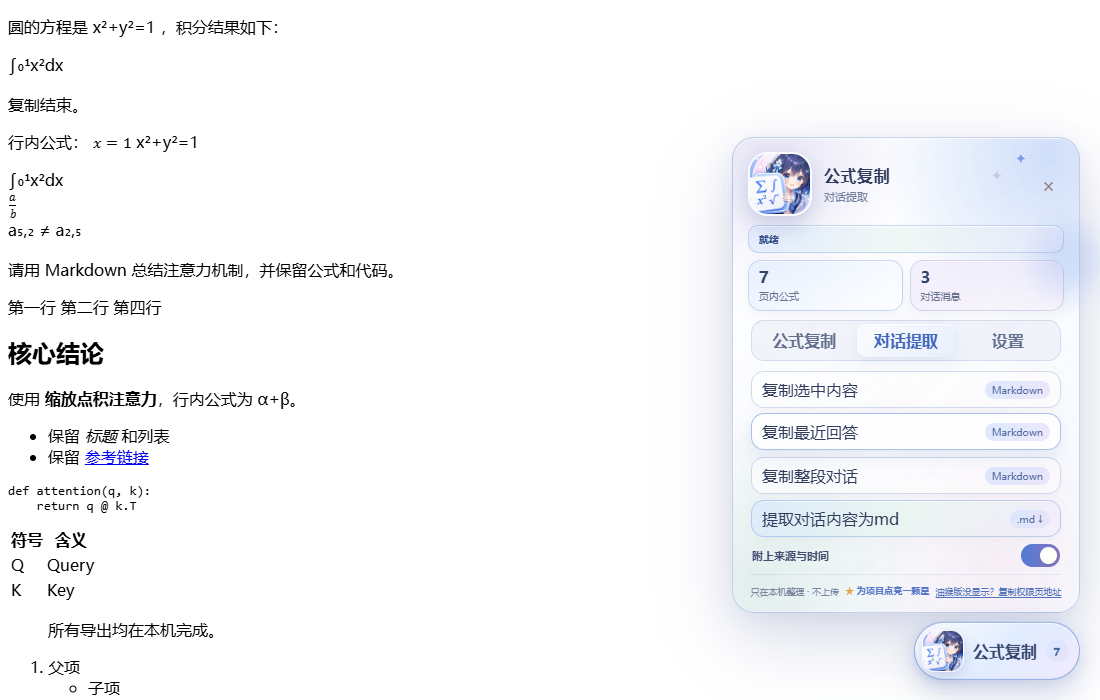
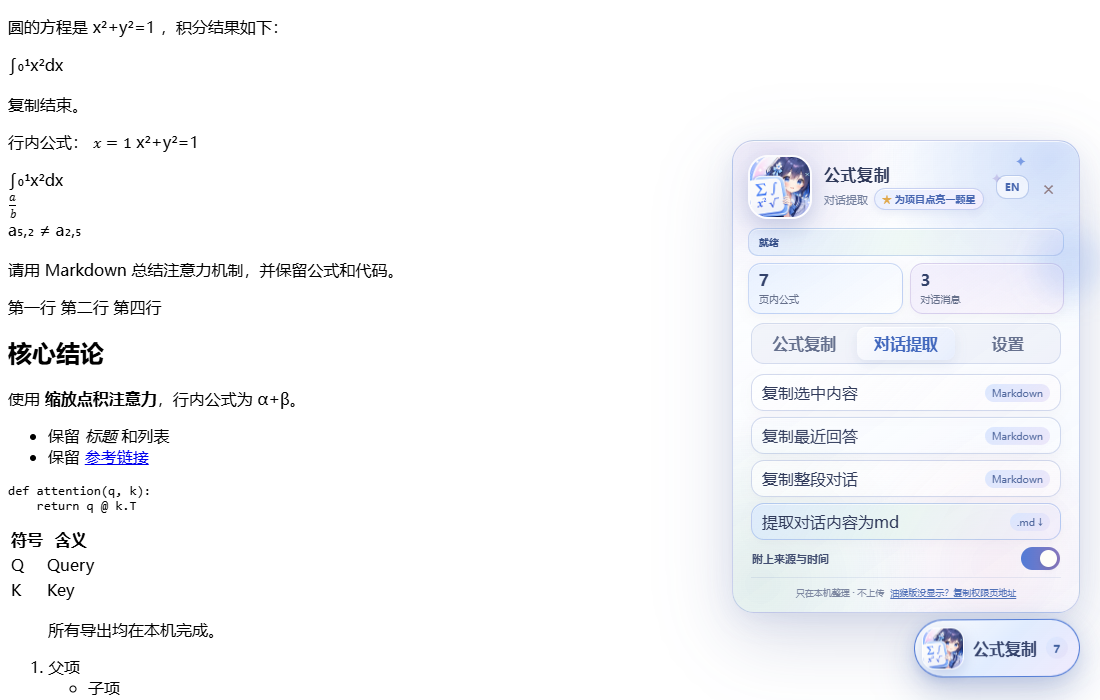
Expose star and language controls in panel header

diff --git a/chatgpt-latex-copy.user.js b/chatgpt-latex-copy.user.js
@@ -125,7 +125,7 @@
       copyExample: "复制一条示例", tryIt: "试试看 →", copySelection: "复制选中内容",
       copyLatest: "复制最近回答", copyConversation: "复制整段对话", downloadConversation: "提取对话内容为md",
       includeMetadata: "附上来源与时间", clickCopy: "点按公式复制", mixedCopy: "整段复制",
-      language: "界面语言", languageButton: "English UI", diagnostics: "复制排查信息", troubleshooting: "遇到问题时",
+      language: "界面语言", languageButton: "EN", diagnostics: "复制排查信息", troubleshooting: "遇到问题时",
       diagnosticsLabel: "公式诊断信息", localOnly: "只在本机整理 · 不上传",
       starProject: "为项目点亮一颗星",
       permissionHelp: "油猴版没显示？复制权限页地址", launcher: "公式复制", ready: "就绪", openPanel: "打开公式复制"
@@ -138,7 +138,7 @@
       copyExample: "Copy an example", tryIt: "Try it →", copySelection: "Copy selection",
       copyLatest: "Copy latest answer", copyConversation: "Copy conversation", downloadConversation: "Export conversation as .md",
       includeMetadata: "Include source & time", clickCopy: "Click formulas to copy", mixedCopy: "Copy mixed selections",
-      language: "UI language", languageButton: "中文界面", diagnostics: "Copy diagnostics", troubleshooting: "For troubleshooting",
+      language: "UI language", languageButton: "中", diagnostics: "Copy diagnostics", troubleshooting: "For troubleshooting",
       diagnosticsLabel: "Formula diagnostics", localOnly: "Local only · No uploads",
       starProject: "Star this project",
       permissionHelp: "Userscript missing? Copy setup page", launcher: "Formula Copy", ready: "Ready", openPanel: "Open Formula Copy"
@@ -1045,9 +1045,14 @@
         #panel-head { display:flex; justify-content:space-between; align-items:center; gap:12px; cursor:grab; user-select:none; touch-action:none; }
         #panel-head:active { cursor:grabbing; }
         #brand { display:flex; align-items:center; gap:12px; min-width:0; }
+        #brand-copy { min-width:0; }
+        #brand-subline { display:flex; align-items:center; flex-wrap:wrap; gap:4px 6px; margin-top:3px; }
         #brand-icon { display:block; width:64px; height:64px; flex:none; border:2px solid rgba(255,255,255,.82); border-radius:20px; object-fit:cover; object-position:center; box-shadow:0 9px 24px rgba(58,83,157,.25); }
         #brand-title { color:#303a5a; font-size:16px; font-weight:650; letter-spacing:.035em; }
-        #brand-subtitle { margin-top:3px; color:#74809d; font-size:11px; }
+        #brand-subtitle { color:#74809d; font-size:11px; }
+        #head-actions { display:flex; align-items:center; gap:4px; flex:none; }
+        #language-toggle { min-width:31px; padding:4px 8px; border:1px solid rgba(91,130,209,.36); border-radius:10px; background:rgba(255,255,255,.56); color:#4565ae; cursor:pointer; font-size:10px; font-weight:720; letter-spacing:.04em; box-shadow:inset 0 1px rgba(255,255,255,.78); transition:background .18s ease,border-color .18s ease,transform .18s ease; }
+        #language-toggle:hover { background:rgba(231,239,255,.88); border-color:rgba(65,108,198,.62); transform:translateY(-1px); }
         #close {
           display:grid; place-items:center; width:31px; height:31px; padding:0; border:0; border-radius:10px;
           background:transparent; color:#927f86; cursor:pointer; font-size:19px;
@@ -1088,8 +1093,6 @@
         }
         .switch-row { display:flex; align-items:center; justify-content:space-between; gap:12px; margin:0 3px; padding:7px 1px; border-bottom:1px solid rgba(126,148,198,.16); }
         .switch-copy strong { display:block; color:#414d70; font-size:11px; font-weight:580; }
-        #language-toggle { padding:4px 9px; border:1px solid rgba(102,137,210,.3); border-radius:999px; background:rgba(255,255,255,.48); color:#4a66a4; cursor:pointer; font-size:10px; font-weight:560; }
-        #language-toggle:hover { background:rgba(255,255,255,.72); border-color:rgba(76,121,215,.46); }
         .switch {
           position:relative; width:39px; height:23px; flex:none; padding:0; border:0; border-radius:999px;
           background:#aeb8cf; cursor:pointer; transition:background .18s ease;
@@ -1104,16 +1107,16 @@
         #diagnostic-text[hidden] { display:none; }
         #footer { display:flex; justify-content:center; align-items:center; flex-wrap:wrap; gap:3px 6px; margin:8px 1px 0; color:#7c86a0; font-size:9px; text-align:center; }
         #permission-help { padding:0; border:0; background:transparent; color:#5272b9; cursor:pointer; font-size:9px; text-decoration:underline; text-underline-offset:2px; }
-        #star-project { color:#5877c8; font-size:9px; font-weight:700; letter-spacing:.01em; text-decoration:none; white-space:nowrap; transition:color .18s ease,transform .18s ease; }
-        #star-project span[aria-hidden="true"] { color:#e0a94d; font-size:11px; vertical-align:-1px; }
-        #star-project:hover { color:#345aa9; transform:translateY(-1px); }
+        #star-project { display:inline-flex; align-items:center; gap:3px; padding:3px 7px; border:1px solid rgba(115,143,215,.32); border-radius:999px; background:linear-gradient(135deg,rgba(231,239,255,.86),rgba(248,238,255,.7)); color:#4867b2; font-size:10px; font-weight:700; letter-spacing:.01em; text-decoration:none; white-space:nowrap; box-shadow:0 3px 10px rgba(69,92,163,.1),inset 0 1px rgba(255,255,255,.86); transition:background .18s ease,border-color .18s ease,transform .18s ease,box-shadow .18s ease; }
+        #star-project span[aria-hidden="true"] { color:#e0a94d; font-size:12px; line-height:1; }
+        #star-project:hover { color:#345aa9; border-color:rgba(75,113,204,.58); background:linear-gradient(135deg,rgba(219,232,255,.94),rgba(245,231,255,.84)); transform:translateY(-1px); box-shadow:0 5px 13px rgba(69,92,163,.16); }
         #permission-help:hover { color:#3459a8; }
         @media (prefers-reduced-motion: reduce) { *, *::before, *::after { transition-duration:.01ms!important; animation-duration:.01ms!important; } }
       </style>
       <div id="panel" data-open="false" aria-hidden="true">
         <div id="panel-head">
-          <div id="brand"><img id="brand-icon" src="${CONTROL_ICON_DATA_URL}" alt=""><div><div id="brand-title" data-i18n="brandTitle">公式复制</div><div id="brand-subtitle" data-i18n="brandSubtitle">对话提取</div></div></div>
-          <button id="close" type="button" aria-label="关闭面板" data-i18n-aria="closePanel">×</button>
+          <div id="brand"><img id="brand-icon" src="${CONTROL_ICON_DATA_URL}" alt=""><div id="brand-copy"><div id="brand-title" data-i18n="brandTitle">公式复制</div><div id="brand-subline"><div id="brand-subtitle" data-i18n="brandSubtitle">对话提取</div><a id="star-project" href="https://github.com/yzhi51161-cmd/chatgpt-formula-copy" target="_blank" rel="noreferrer"><span aria-hidden="true">★</span> <span data-i18n="starProject">为项目点亮一颗星</span></a></div></div></div>
+          <div id="head-actions"><button id="language-toggle" type="button" aria-label="切换到英语界面" data-i18n="languageButton">EN</button><button id="close" type="button" aria-label="关闭面板" data-i18n-aria="closePanel">×</button></div>
         </div>
         <p id="status"></p>
         <div id="metrics"><div class="metric"><strong id="formula-metric">0</strong><span data-i18n="formulas">页内公式</span></div><div class="metric"><strong id="message-metric">0</strong><span data-i18n="messages">对话消息</span></div></div>
@@ -1136,11 +1139,10 @@
         <section class="pane" role="tabpanel" data-pane="settings" hidden>
           <div class="switch-row"><div class="switch-copy"><strong data-i18n="clickCopy">点按公式复制</strong></div><button id="toggle" class="switch" type="button" role="switch" aria-label="点按公式复制" data-i18n-aria="clickCopy"></button></div>
           <div class="switch-row"><div class="switch-copy"><strong data-i18n="mixedCopy">整段复制</strong></div><button id="selection-toggle" class="switch" type="button" role="switch" aria-label="整段复制" data-i18n-aria="mixedCopy"></button></div>
-          <div class="switch-row"><div class="switch-copy"><strong data-i18n="language">界面语言</strong></div><button id="language-toggle" type="button" data-i18n="languageButton">English UI</button></div>
           <button id="diagnostic" class="action" type="button"><span data-i18n="diagnostics">复制排查信息</span><span class="action-copy" data-i18n="troubleshooting">遇到问题时</span></button>
           <textarea id="diagnostic-text" readonly hidden aria-label="公式诊断信息" data-i18n-aria="diagnosticsLabel"></textarea>
         </section>
-        <div id="footer"><span data-i18n="localOnly">只在本机整理 · 不上传</span><a id="star-project" href="https://github.com/yzhi51161-cmd/chatgpt-formula-copy" target="_blank" rel="noreferrer"><span aria-hidden="true">★</span> <span data-i18n="starProject">为项目点亮一颗星</span></a><button id="permission-help" type="button" data-i18n="permissionHelp">油猴版没显示？复制权限页地址</button></div>
+        <div id="footer"><span data-i18n="localOnly">只在本机整理 · 不上传</span><button id="permission-help" type="button" data-i18n="permissionHelp">油猴版没显示？复制权限页地址</button></div>
       </div>
       <button id="launcher" type="button" aria-expanded="false">
         <img id="launcher-icon" src="${CONTROL_ICON_DATA_URL}" alt=""><span data-i18n="launcher">公式复制</span><span id="launcher-count">0</span>

diff --git a/CHANGELOG.md b/CHANGELOG.md
@@ -6,7 +6,7 @@
 - Added Markdown copy for the latest assistant response and the full current conversation.
 - Added Markdown copy for the current selection and a focused conversation-extraction pane.
 - Reworked the draggable page panel with lighter typography, more breathing room, softer translucent frames, and a high-DPI icon generated from the original 1254px artwork.
-- Refined the page-panel logo into a focused 256px crop for clearer face and formula details, and restored the compact in-panel project Star link.
+- Refined the page-panel logo into a focused 256px crop for clearer face and formula details, moved the project Star link into the header, and exposed the `EN` / `中` language switch there as well.
 - Added a persistent Chinese / English UI switch in Settings, including localized status and toast messages.
 - Added local `.md` downloads preserving headings, emphasis, lists, quotes, code blocks, tables, links, image references, and LaTeX.
 - Replaced the 1.2-second UI recovery poll with targeted `MutationObserver` recovery.

diff --git a/docs/RELEASE_NOTES_v5.0.0.md b/docs/RELEASE_NOTES_v5.0.0.md
@@ -17,10 +17,10 @@ The Userscript does not create a separate browser toolbar icon. Refresh ChatGPT 
 - Choose automatic `$` / `$$`, always-inline, or raw LaTeX output.
 - Copy a selection, the latest answer, or the full conversation as Markdown.
 - Download the current conversation as an `.md` file with the conversation export action.
-- Switch between Chinese and English UI from Settings; the choice is stored locally.
+- Switch between Chinese and English UI with the always-visible `EN` / `中` button in the panel header; the choice is stored locally.
 - Preserve headings, lists, quotes, code blocks, tables, links, images, and formulas in exports.
 - Use the compact permission helper at the bottom of the panel when troubleshooting Tampermonkey setup.
-- Use the in-panel **Star this project** link to open the GitHub project page.
+- Use the more visible **Star this project** chip beside the panel title to open the GitHub project page.
 - Process all page content locally without uploads or remote code.
 
 ## Release file
